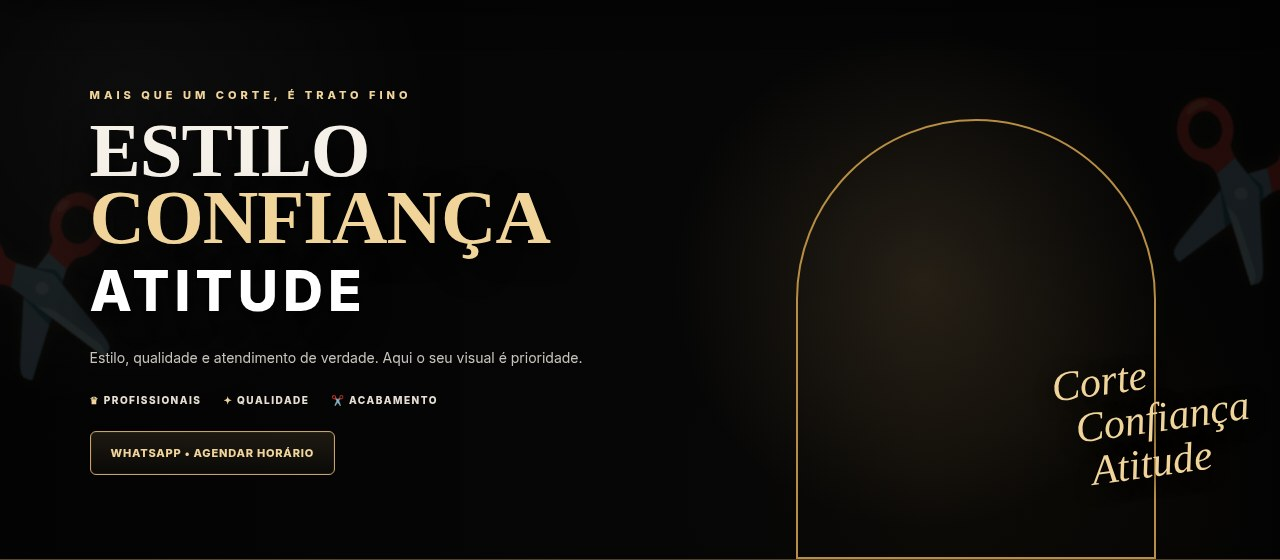
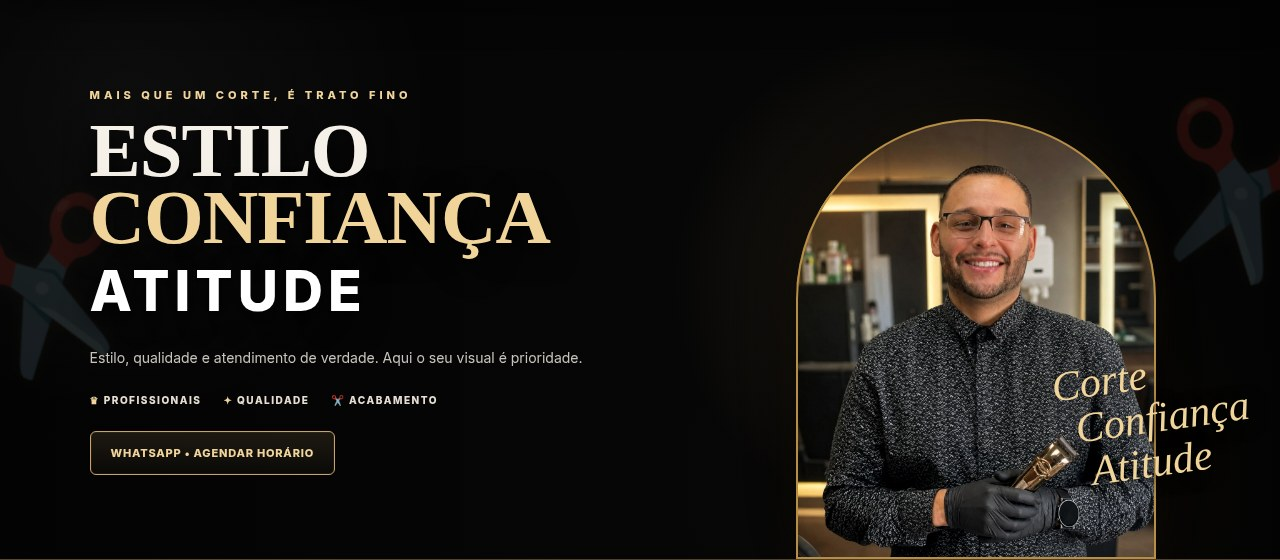
Refinar imagens reais do portfólio e da apresentação

Changed region(s): [[0.625, 0.2125, 0.9062, 1.0]]

diff --git a/index.html b/index.html
@@ -12,7 +12,7 @@
 <header class="header"><a class="brand" href="#" aria-label="Jhonny Sites início"><span class="brand-icon" aria-hidden="true">j<span>.</span></span><span>jhonny<span class="brand-light">sites</span><small>DESIGN QUE CONECTA.</small></span></a><button class="menu-toggle" aria-expanded="false" aria-controls="navigation" aria-label="Abrir menu"><span></span><span></span></button><nav id="navigation" aria-label="Principal"><a href="#solucoes">O que fazemos</a><a href="#projetos">Projetos</a><a href="#processo">Como funciona</a><a href="#duvidas">Dúvidas</a><a class="button button-small" href="#contato">Vamos conversar <span aria-hidden="true">+</span></a></nav></header>
 <main id="principal">
 <section class="hero section-wrap"><div class="hero-copy"><div class="eyebrow"><span class="dash"></span> CRIAÇÃO DE SITES PARA NEGÓCIOS REAIS</div><h1>Seu negócio<br>merece um site<br><span>à altura.</span></h1><p>Transforme uma boa primeira impressão em novas oportunidades. Um site bonito, fácil de usar e feito para apresentar o que você faz de melhor.</p><div class="hero-actions"><a class="button" href="#contato">Quero meu site profissional <span aria-hidden="true">+</span></a><a class="text-link" href="#projetos">Conheça nosso trabalho</a></div><div class="hero-checks"><span>✓ Feito para celular</span><span>✓ Painel administrativo</span><span>✓ Seu estilo, sua marca</span></div></div>
-<div class="hero-visual"><div class="visual-label"><span>UMA NOVA PRESENÇA DIGITAL</span><span>JHONNY SITES</span></div><div class="browser"><div class="browser-bar"><div class="browser-dots"><i></i><i></i><i></i></div><span>seunegocio.com.br</span><span class="lock-icon" aria-hidden="true">◇</span></div><div class="demo-site"><div class="demo-nav"><b id="demoBrand">TRATO FINO<span>BARBEARIA</span></b><span>Sobre &nbsp; Serviços &nbsp; Contato</span><i aria-hidden="true">☰</i></div><div class="demo-content"><span id="demoEyebrow">MAIS QUE UM CORTE. UMA EXPERIÊNCIA.</span><h2 id="demoTitle">Seu estilo.<br>Sua melhor<br><em>versão.</em></h2><p id="demoDescription">Cuidado em cada detalhe. Do primeiro contato ao acabamento final.</p><span class="demo-cta" id="demoCta">Agende seu horário</span></div><div class="demo-image"><img src="assets/projeto-trato-fino.jpg" alt="Detalhe do projeto Trato Fino, com identidade preta e dourada" fetchpriority="high"><span class="demo-image-overlay"></span></div><div class="demo-bottom"><span>IDENTIDADE PRÓPRIA</span><span>EXPERIÊNCIA EM CADA DETALHE</span></div></div></div><div class="floating-card"><span class="floating-icon" aria-hidden="true">✦</span><div><b>Bonito por fora.<br>Funcional por dentro.</b><small>Do visual ao painel.</small></div></div><div class="visual-footer"><span>UM EXEMPLO DO QUE PODEMOS CRIAR</span><span class="circle-mark" aria-hidden="true">✳</span></div></div></section>
+<div class="hero-visual"><div class="visual-label"><span>UMA NOVA PRESENÇA DIGITAL</span><span>JHONNY SITES</span></div><div class="browser"><div class="browser-bar"><div class="browser-dots"><i></i><i></i><i></i></div><span>seunegocio.com.br</span><span class="lock-icon" aria-hidden="true">◇</span></div><div class="demo-site"><div class="demo-nav"><b id="demoBrand">TRATO FINO<span>BARBEARIA</span></b><span>Sobre &nbsp; Serviços &nbsp; Contato</span><i aria-hidden="true">☰</i></div><div class="demo-content"><span id="demoEyebrow">MAIS QUE UM CORTE. UMA EXPERIÊNCIA.</span><h2 id="demoTitle">Seu estilo.<br>Sua melhor<br><em>versão.</em></h2><p id="demoDescription">Cuidado em cada detalhe. Do primeiro contato ao acabamento final.</p><span class="demo-cta" id="demoCta">Agende seu horário</span></div><div class="demo-image"><img src="assets/roger-trato-fino.jpg" alt="Roger, do projeto Trato Fino, com identidade preta e dourada" fetchpriority="high"><span class="demo-image-overlay"></span></div><div class="demo-bottom"><span>IDENTIDADE PRÓPRIA</span><span>EXPERIÊNCIA EM CADA DETALHE</span></div></div></div><div class="floating-card"><span class="floating-icon" aria-hidden="true">✦</span><div><b>Bonito por fora.<br>Funcional por dentro.</b><small>Do visual ao painel.</small></div></div><div class="visual-footer"><span>UM EXEMPLO DO QUE PODEMOS CRIAR</span><span class="circle-mark" aria-hidden="true">✳</span></div></div></section>
 <div class="capability-strip" aria-label="Recursos"><span>SITES PROFISSIONAIS</span><i>✳</i><span>PAINEL ADMINISTRATIVO</span><i>✳</i><span>DESIGN RESPONSIVO</span><i>✳</i><span>INTEGRAÇÃO COM WHATSAPP</span></div>
 <section class="solutions section-wrap light" id="solucoes"><div class="section-heading"><div><div class="eyebrow">PRESENÇA DIGITAL COM PROPÓSITO</div><h2>Não é só estar na internet.<br>É ser <em>bem apresentado.</em></h2></div><p>Seu cliente precisa entender o que você oferece e encontrar um jeito simples de falar com você. A gente conecta essas duas coisas.</p></div><div class="solution-grid"><article><span class="service-icon" aria-hidden="true">▧</span><h3>Um site com a sua cara.</h3><p>Cores, textos e uma apresentação que valorizam sua marca. Nada de deixar seu negócio com aparência improvisada.</p><span class="service-tag">DESIGN & IDENTIDADE</span></article><article><span class="service-icon" aria-hidden="true">◫</span><h3>Você no controle.</h3><p>Um painel para atualizar os textos e as fotos combinados no projeto, sem depender de alguém para cada pequena mudança.</p><span class="service-tag">PAINEL ADMINISTRATIVO</span></article><article><span class="service-icon" aria-hidden="true">◎</span><h3>Mais perto do cliente.</h3><p>Apresente seus serviços, responda às principais dúvidas e facilite o contato pelo WhatsApp, inclusive no celular.</p><span class="service-tag">CONTATO SIMPLIFICADO</span></article></div></section>
 <section class="promo-banner section-wrap"><div class="promo-symbol" aria-hidden="true">✳</div><div><span class="eyebrow">SUA MARCA NÃO PRECISA PARECER PEQUENA.</span><h2>Um bom negócio merece<br>uma boa vitrine digital.</h2></div><a href="#oferta" class="button button-white">Conhecer a oferta <span aria-hidden="true">+</span></a></section>
